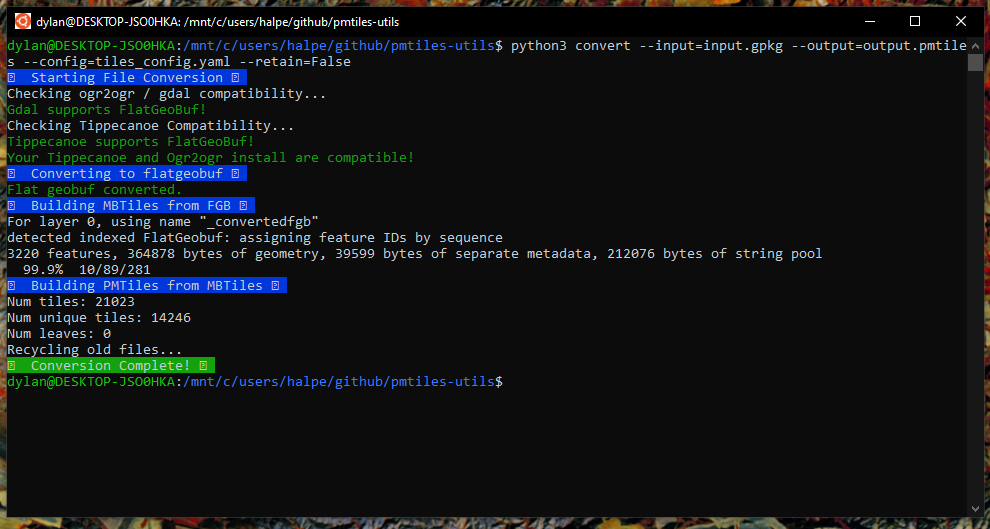
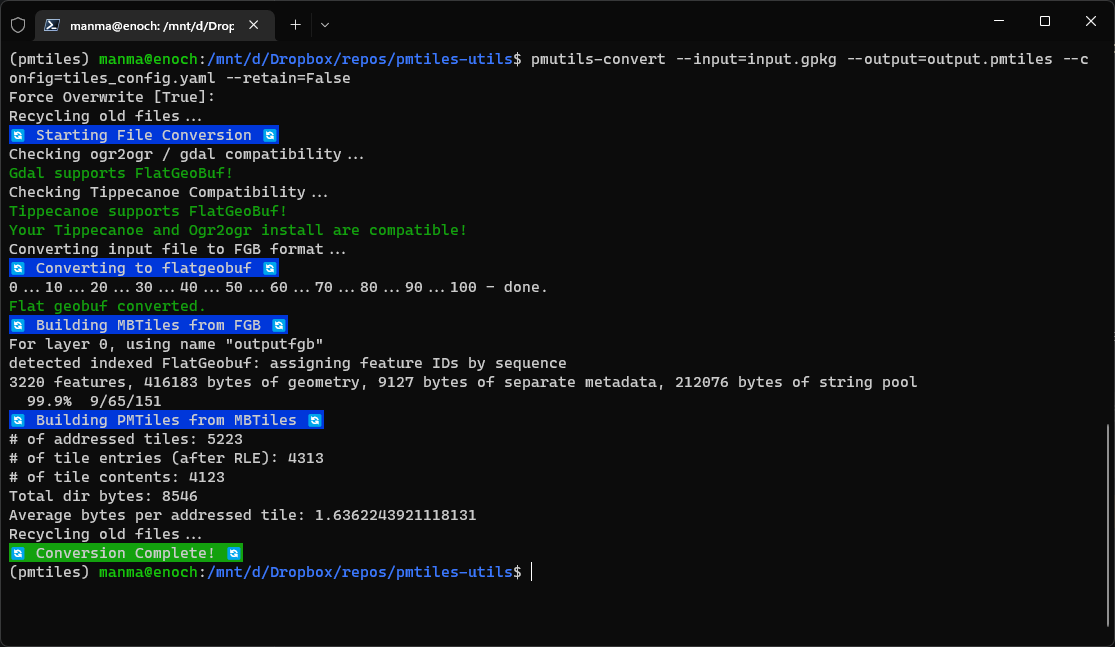
docs: update docs with new entrypoint

Changed region(s): [[0.0, 0.0, 1.0, 1.0]]

diff --git a/readme.md b/readme.md
@@ -6,10 +6,10 @@ Some helpful utils :)
 
 ### Install Convert
 
-From the repo root, in your terminal:
+From a folder in your machine, type in your terminal:
 
-``` bash
-pip install -r convert/requirements.txt
+```bash
+pip install git+https://github.com/Matico-Platform/pmtiles-utils
 ```
 
 External requirements:
@@ -19,9 +19,9 @@ External requirements:
 
 ### Run Convert
 
-After install python dependencies and making sure you have Tippecanoe and Gdal (ogr2ogr) available in your CLI environment, you can run `python convert` from the repo root in your terminal:
+After install python dependencies and making sure you have Tippecanoe and Gdal (ogr2ogr) available in your CLI environment, you can run `pmutils-convert` from the repo root in your terminal:
 ![Prompt based](/docs/img/interactive_cli.png)
-Alternatively, you can pass the arguments as flags directly in one line. Run `python convert --help` for more info.
+Alternatively, you can pass the arguments as flags directly in one line. Run `pmutils-convert --help` for more info.
 ![Flag based](/docs/img/flags.png)
 
 ### Config
